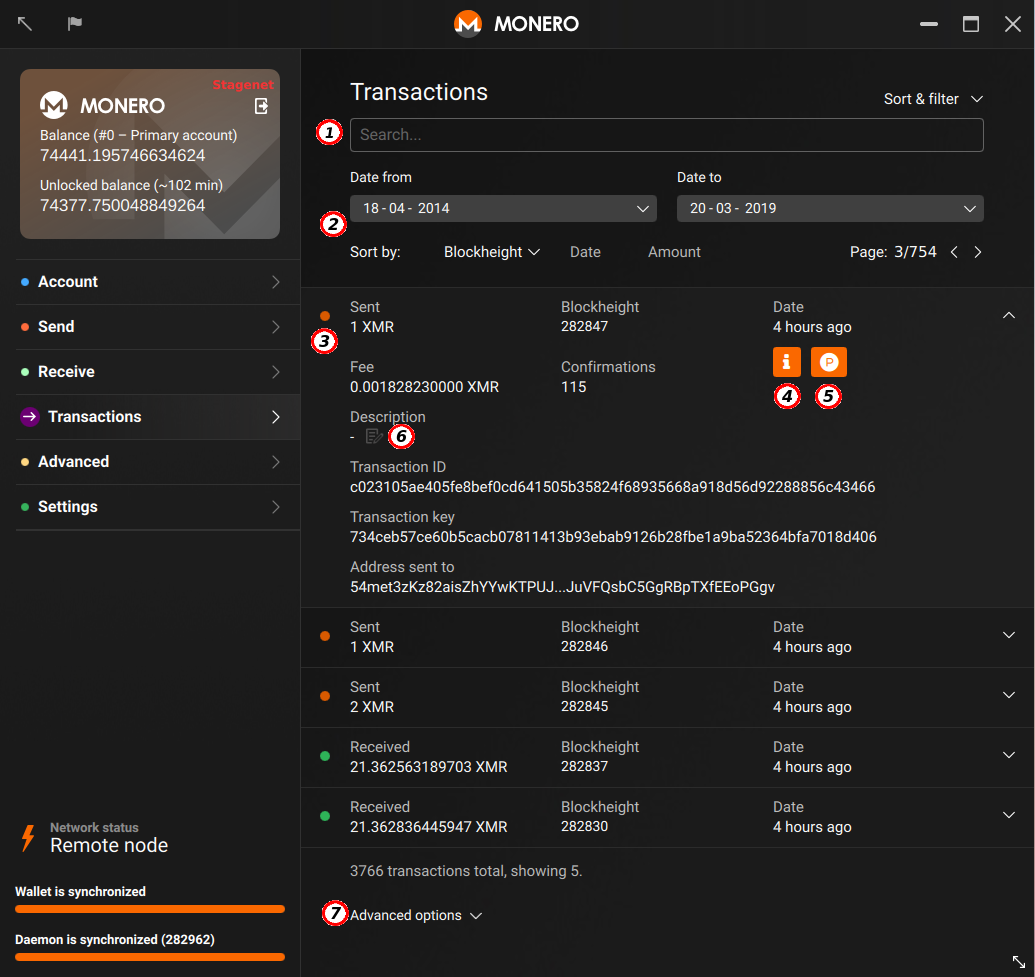
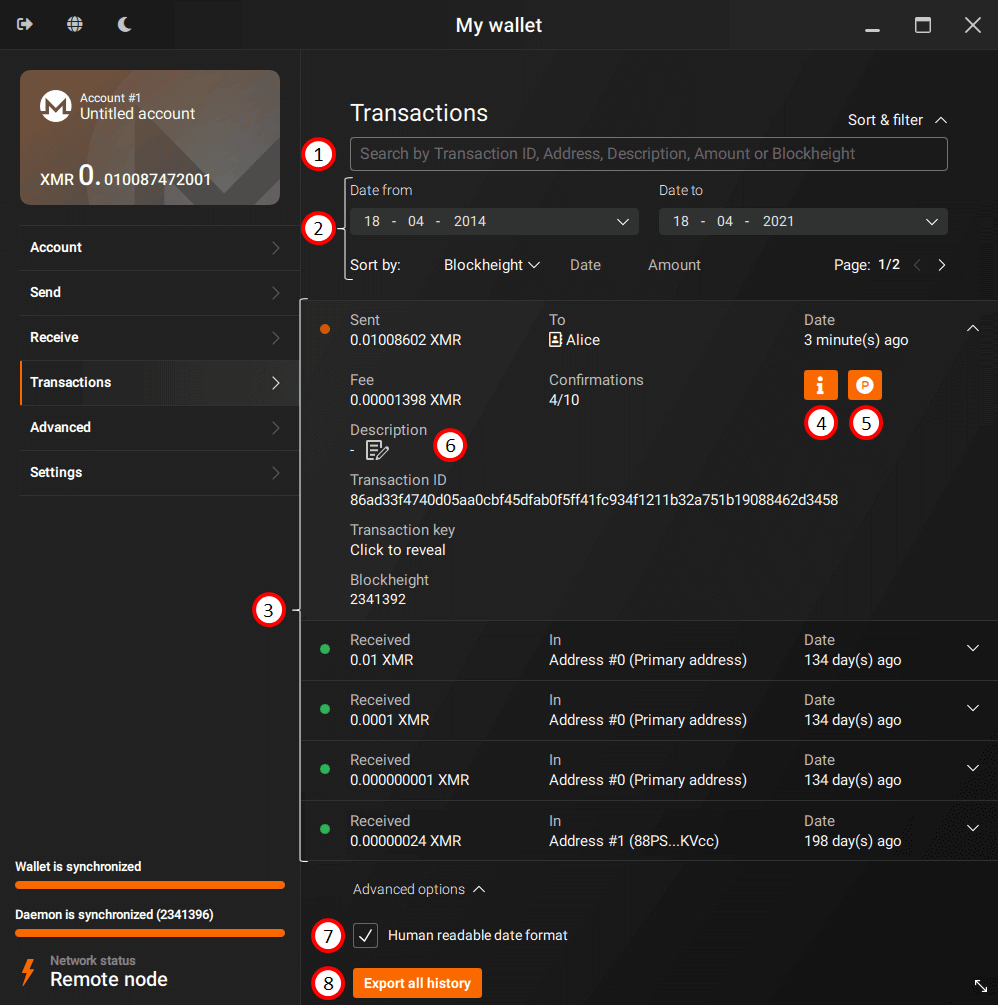
ch07: add new search options, update history screenshot (#206)
* ch07: add new search options

* update black_transactions-history.png

* Update ch07.md

* Add files via upload

diff --git a/en/ch07.md b/en/ch07.md
@@ -3,7 +3,7 @@
 
 The `Transactions` tab let you walk through the transactions sent and received on the currently selected account of your Monero wallet.
 
-(1) **Search:** Quickly filter out transactions from the list searching by transaction ID, destination address, description, amount or blockheight (number of the block in which the transaction was mined).  
+(1) **Search:** Quickly filter out transactions from the list searching by transaction ID, destination address, address book label (destination address label), receiving address, receiving address label, description, amount or blockheight (number of the block in which the transaction was included by a miner).  
 (2) **Sort & Filter:** Here you can filter out transactions between specific dates, or sort them by blockheight, date or amount.  
 (3) **Transaction list:** This area displays the sent and received transactions of the currently selected account.  
 For incoming transactions you will see: `Transaction type` (Received), `Amount`, `In` (your wallet's address which received this transaction and its label), and `Date`. Because of Monero's privacy-preserving technology, it's not possible to know the sender's address. Therefore, in order to know from who you are receiving each transaction, you should always remember to create and give a new subaddress for every person you will receive Monero from.  
@@ -12,4 +12,8 @@ By clicking on a transaction, you will see the following additional information:
 (4) **Details:** Clicking here will show you the following transaction details, when available: `Transaction ID`, `Date`, `Amount`, `Address`, `Payment ID`, `Integrated address`, `Transaction key`, `Description (note)`, `Destinations` and `Rings`.  
 (5) **Prove payment (P):** Clicking here will generate a payment proof, which you can use, in case of a dispute, to prove that you made a payment. More details on proving payments can be found [here](https://getmonero.org/resources/user-guides/prove-payment.html)  
 (6) **Set description:** Click on this icon to set a new description or edit an existing one.  
-(7) **Advanced options:** Lets you choose in which format the date should be displayed.
+
+**Advanced options:**  
+
+(7) **Human readable date format:** Lets you choose in which format the date should be displayed.  
+(8) **Export all history:** Lets you export all your transaction history in a .csv file.  
